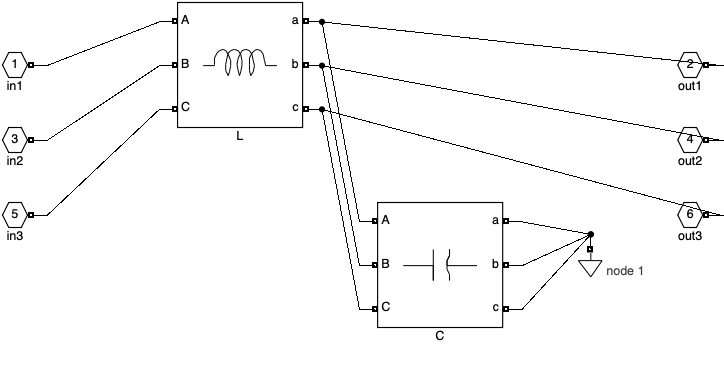
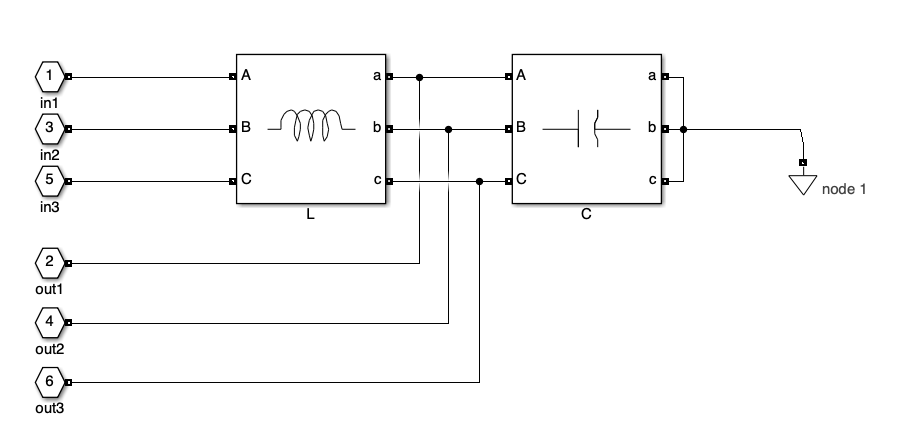
Add real simulation results: waveforms, power, and frequency plots
Time-domain voltage/current waveforms and full-run power/frequency
traces from the verified 0.4s simulation, plus refreshed model
structure screenshots. Supersedes the earlier placeholder diagrams.

diff --git a/results/RESULTS.md b/results/RESULTS.md
@@ -1,5 +1,34 @@
 # Simulation Results
 
+## Waveforms (0.4 s run, current gains)
+
+**DG4 bus voltage and current, 3-phase, zoomed around the Load 4.2 step (t = 0.2 s):**
+
+![DG4 bus voltage](waveform_voltage.png)
+![DG4 bus current](waveform_current.png)
+
+The fine ripple visible on both traces is real — the inverters use detailed
+switching models (IGBT bridge, 20 kHz PWM), not averaged models, so the LC
+filter's residual switching ripple shows up in the waveform exactly as it
+would on a real oscilloscope trace from this hardware. Current shows
+proportionally more visible ripple than voltage because its own fundamental
+amplitude is much smaller, and because the bus current combines contributions
+from the local load, the feeder to the neighboring DG, and whatever ripple
+that neighbor's own switching imposes through the network — it isn't a sign of
+a problem.
+
+**Per-DG active/reactive power and frequency, full run:**
+
+![Per-DG active/reactive power](power_response.png)
+![Per-DG frequency](frequency_response.png)
+
+The power plot shows DG4's smooth ramp after the Load 4.2 step (climbing from
+≈12 W to ≈47 W) while the other three DGs pick up a smaller, slower share
+through the feeders. The frequency plot makes the "known limitations" below
+visually obvious: the total spread across all 4 DGs over the whole run is
+under 0.008 Hz — correct and stable, but a very weak droop response (see
+below for why).
+
 ## Verified steady operation (`run_sim_check(0.4)`, current gains)
 
 | DG | peak \|V\| | frequency range | P (end) | Q (end) |
